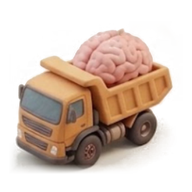
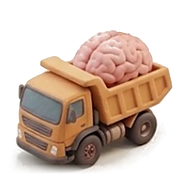
Carga Mental v1.8.2: ícono más nítido y sin restos de la bandera
Claude-Session: https://claude.ai/code/session_015YbY1y62KCdtBUFZa7X8PD

diff --git a/index.html b/index.html
@@ -313,10 +313,11 @@ textarea.plain{font-family:inherit;font-size:var(--fs-md);min-height:72px}
 <script>
 'use strict';
 /* ============ Constantes ============ */
-const VERSION = '1.8.1';
+const VERSION = '1.8.2';
 const SCHEMA = 3; // versión de la estructura de datos guardados (ver MIGRATIONS)
 /* Novedades: la primera es la versión actual. "hechas" = ítems del plan de 100 tildados hasta esa versión. */
 const NEWS = [
+  {v:'1.8.2', d:'2026-11-14', hechas:28, items:['Ícono más nítido: sin rastros de la bandera y con mejor definición.']},
   {v:'1.8.1', d:'2026-11-14', hechas:28, items:['Ícono nuevo: el camión con el cerebro sobre fondo blanco, sin la bandera.']},
   {v:'1.8.0', d:'2026-11-14', hechas:28, items:[
     'Modo «Estoy en el negocio»: en cada negocio de Compras hay un botón nuevo que abre solo lo que falta comprar, con letra grande. Tocás un producto y queda tachado; con «Terminé» se registran todos como comprados (con «Deshacer»). Lo tachado se guarda por si cerrás la app en medio de la compra.'

diff --git a/sw.js b/sw.js
@@ -1,4 +1,4 @@
-const CACHE = 'carga-mental-v1.8.1';
+const CACHE = 'carga-mental-v1.8.2';
 const SHELL = ['./', 'index.html', 'manifest.json', 'icon-192.png', 'icon-512.png', 'cover.jpg'];
 
 self.addEventListener('install', e => {

diff --git a/tests/smoke.py b/tests/smoke.py
@@ -756,7 +756,7 @@ with sync_playwright() as p:
         ctx.close()
 
     # ---------- 10. v1.7.0: aviso anticipado («se acaba en 2 días») ----------
-    init17 = ("localStorage.setItem('cm_me','gonzalo'); localStorage.setItem('cm_seen','1.8.1');"
+    init17 = ("localStorage.setItem('cm_me','gonzalo'); localStorage.setItem('cm_seen','1.8.2');"
               " if(!localStorage.getItem('cm_data')){ const d = %s; d._v = 3; Object.values(d.items).forEach(i => i.auto = true);"
               " localStorage.setItem('cm_pre', JSON.stringify(d)); localStorage.setItem('cm_data', JSON.stringify(d)); }") % json.dumps(V15)
     for scheme in ['light', 'dark']:

diff --git a/CHANGELOG.md b/CHANGELOG.md
@@ -1,5 +1,8 @@
 # Novedades de Carga Mental
 
+## v1.8.2 — 2026-11-14
+- Ícono más nítido (pedido de Gonzalo): sin restos del palo ni de la bandera, fondo blanco limpio y mejor definición.
+
 ## v1.8.1 — 2026-11-14
 - Ícono nuevo (pedido de Gonzalo): el camión con el cerebro sobre fondo blanco, sin la bandera blanca. Se sacó el ícono «maskable» para que Android no lo recorte.
 
